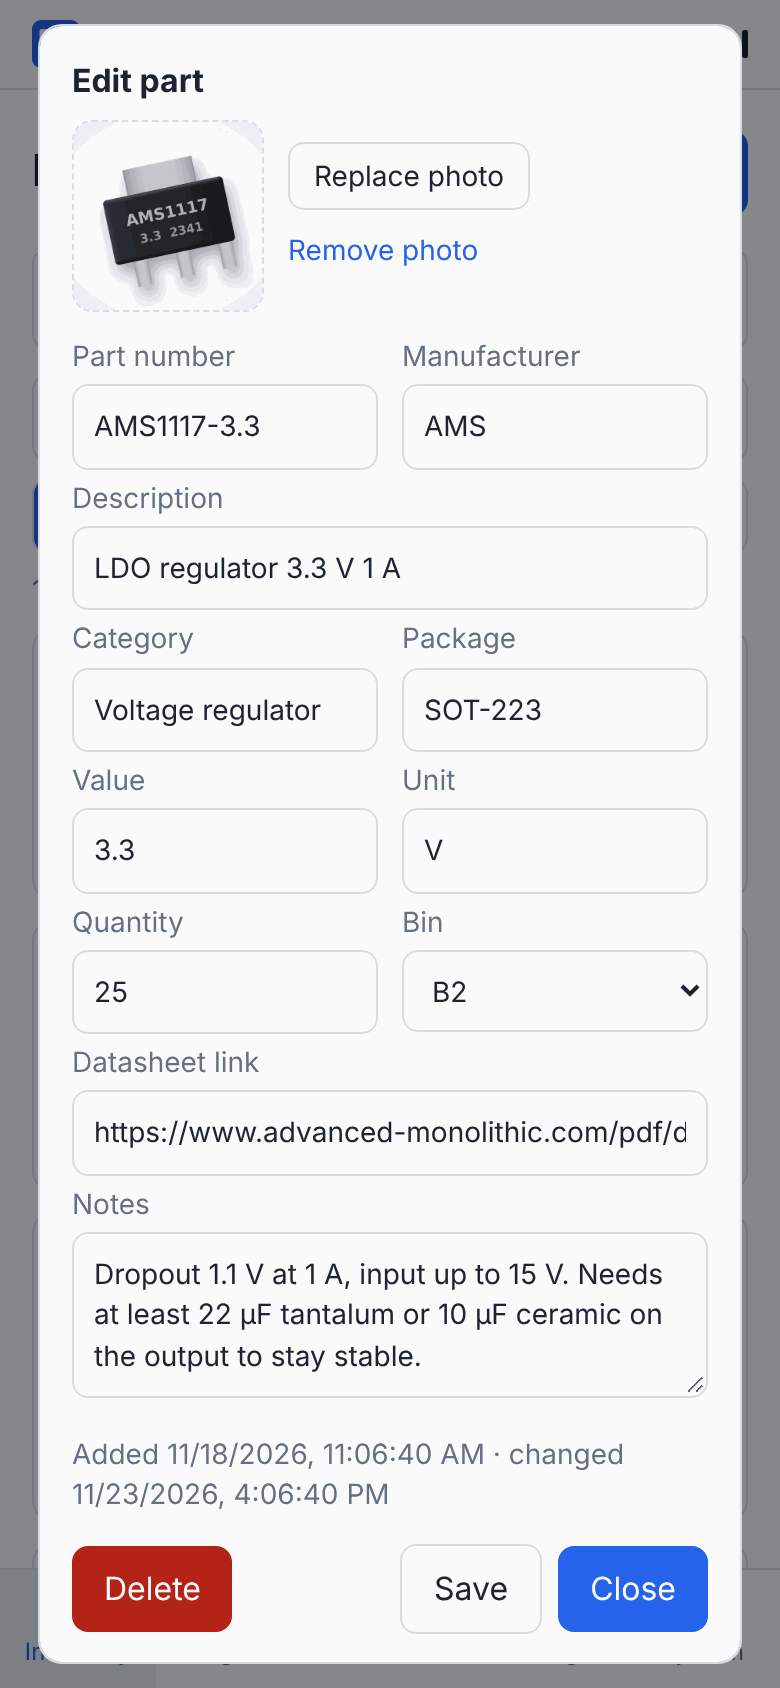
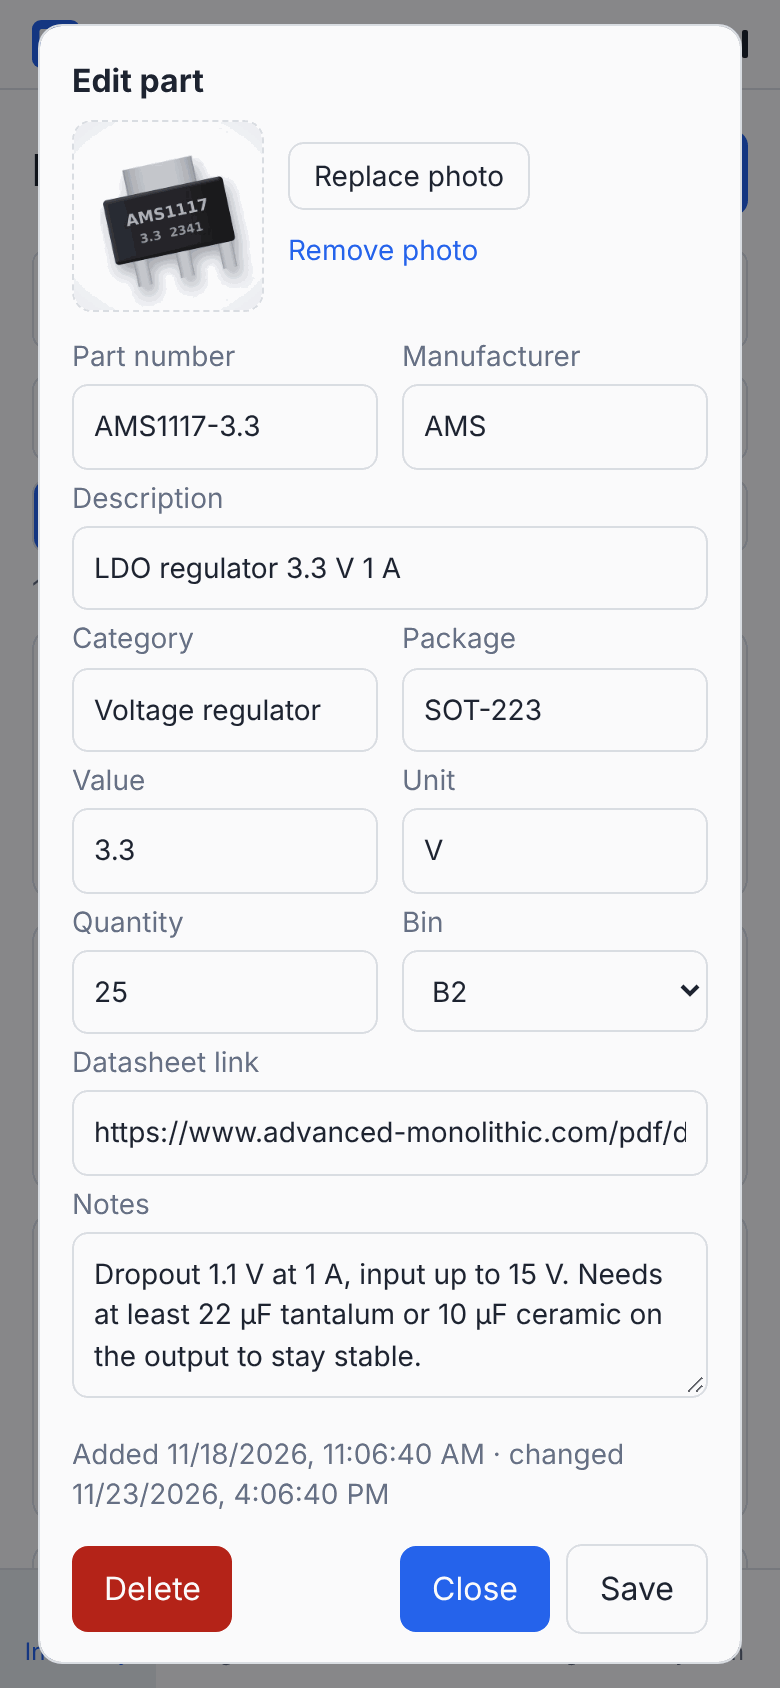
Part dialog: keep the buttons in place, change only which one is the main one
Claude-Session: https://claude.ai/code/session_01Bp1oEgZ9cAs6Ev3YWNHdR1

Changed region(s): [[0.4923, 0.8934, 0.9231, 0.9858]]

diff --git a/web/app.js b/web/app.js
@@ -1247,22 +1247,18 @@ async function openPart(id) {
   loadPhotoInfo();
 }
 
-// The dialog's two right-hand buttons. A part opened from the list is most
-// often only looked at, so until something in the form changes, "Close" is
-// the main (rightmost, filled) button and Save sits beside it as a secondary
-// one. The first change, or adding a new part, swaps them back: Save becomes
-// the main button and Close turns into Cancel.
+// The dialog's two right-hand buttons stay where they are; only which one is
+// the main (filled) button changes. A part opened from the list is most often
+// only looked at, so until something in the form changes, "Close" is the
+// main button and Save a secondary one. The first change, or adding a new
+// part, makes Save the main button and turns Close into Cancel.
 function setPartChanged(changed) {
   const viewing = !!editing && !changed;
-  const save = $('#part-save');
   const cancel = $('#part-cancel');
   cancel.dataset.i18n = viewing ? 'inv.close' : 'inv.cancel';
   cancel.textContent = t(cancel.dataset.i18n);
   cancel.classList.toggle('secondary', !viewing);
-  save.classList.toggle('secondary', viewing);
-  // The main button goes last, at the right edge.
-  if (viewing) save.after(cancel);
-  else cancel.after(save);
+  $('#part-save').classList.toggle('secondary', viewing);
 }
 
 function partTimes(p) {

diff --git a/docs/user-guide.md b/docs/user-guide.md
@@ -33,7 +33,7 @@ The page works on phones and computers, in English, Spanish and Russian, with a 
 
 - **Search as you type.** Every word must appear somewhere in the part (number, manufacturer, category, description, package, value, notes), in any case, also in Cyrillic and with accents: `stm32 lqfp` finds STM32 parts in LQFP packages. The category and manufacturer lists narrow it further; the sort button orders by part number, manufacturer, category and more.
 - **Three views:** cards with **+ / −** quantity buttons, a table, and **Bins**, the grid with the matching bins marked. Tap a bin label on a card (`F5`) to light that bin. With **Light the bin when all results are in one bin** ticked, a search that narrows down to one bin lights it by itself.
-- **Add part** / tap a part: the form for its fields, the bin, the quantity and a photo. Categories and manufacturers already in use are offered as you type. A part opened from the list shows **Close** as the main button; once something is changed, **Save** takes its place.
+- **Add part** / tap a part: the form for its fields, the bin, the quantity and a photo. Categories and manufacturers already in use are offered as you type. A part opened from the list shows **Close** as the main button; once something is changed, **Save** becomes the main button and Close turns into **Cancel**.
 - **Photos:** in the part form, **Add photo** takes one with the camera or picks one from the phone. The page turns it upright and shrinks it (640 px on the long side in flash, 800 px on a microSD card, plus a small thumbnail) before uploading. Tap a thumbnail to see the photo full size; tap again to close it.
 
 <br clear="right">
